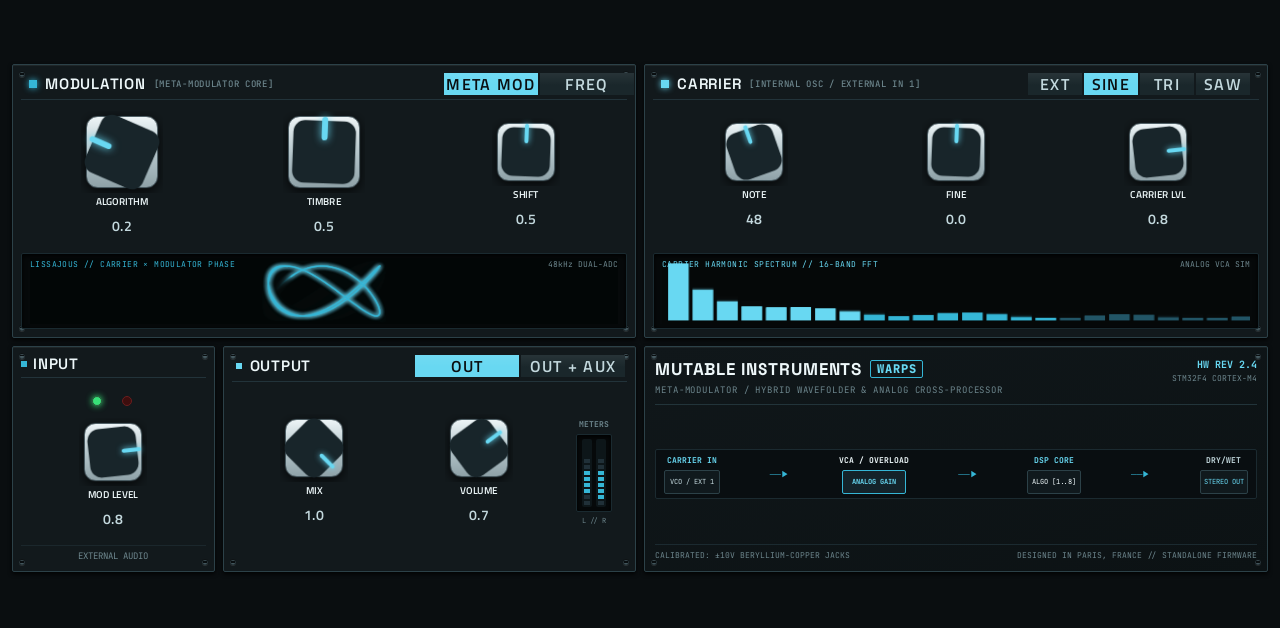
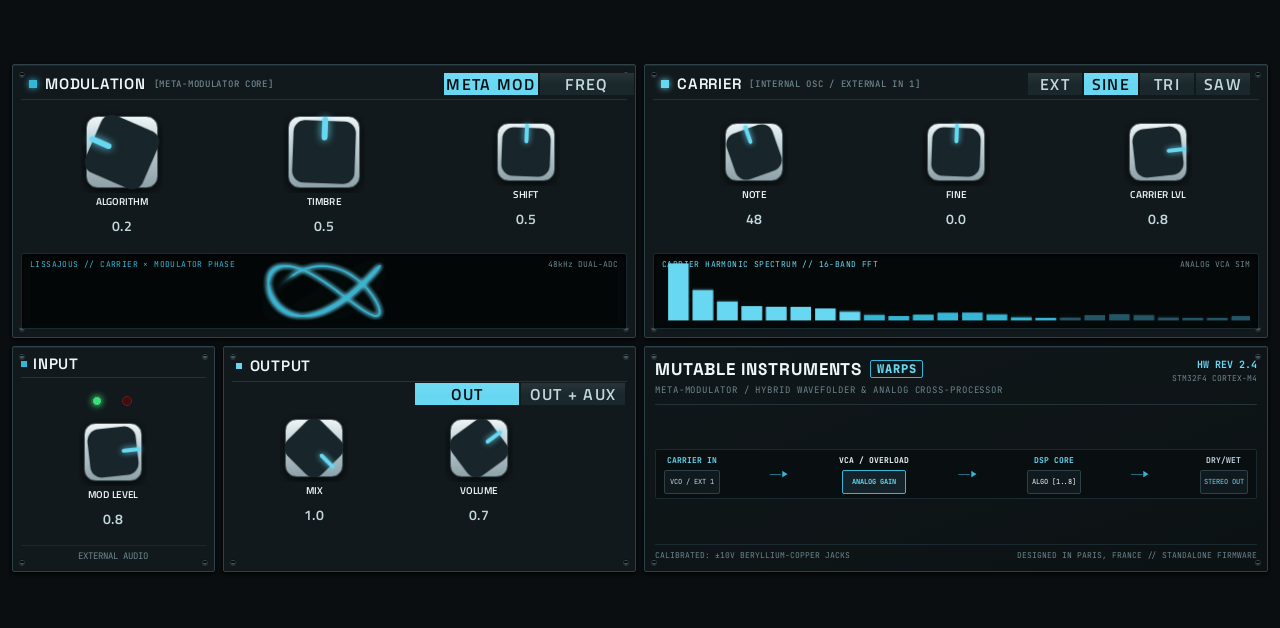
Warps: design QA -- INPUT and OUTPUT a Q-Link column each

Changed region(s): [[0.3125, 0.5446, 0.5, 0.6656], [0.4375, 0.7261, 0.4688, 0.7866], [0.4375, 0.6656, 0.4688, 0.6959]]

diff --git a/DESIGN-QA.md b/DESIGN-QA.md
@@ -1,0 +1,27 @@
+# Design QA: Warps
+
+Status: done offline (2026-10-03), **waiting for the device check**.
+
+## Owner's notes
+None specific; checked against the batch rules (one Q-Link column per panel, as Moog; outlines that frame one
+panel).
+
+## What changed
+Q-Link columns before → after ("-" = an empty slot):
+
+| Page | before | after |
+|---|---|---|
+| WARPS | 1 MODE, ALGORITHM, TIMBRE, SHIFT  ·  2 CARRIER, NOTE, FINE, CARRIER LVL  ·  3 MOD LEVEL, OUTPUT, MIX, VOLUME | 1 MODE, ALGORITHM, TIMBRE, SHIFT  ·  2 CARRIER, NOTE, FINE, CARRIER LVL  ·  3 MOD LEVEL  ·  4 OUTPUT, MIX, VOLUME |
+
+- MODULATION and CARRIER were already a column each. INPUT's MOD LEVEL shared a column with OUTPUT, so that outline
+  took in both panels: now INPUT | OUTPUT, a column each.
+- OUTPUT's OUT / OUT + AUX selector moved from the panel's title bar to just under it, so OUTPUT's outline no longer
+  reaches up into MODULATION. Its made-up meters (they never moved) went.
+
+Made in the design (convert.py MAPS `augment` / `qlinks` / `nudge`), so a rerun keeps it.
+
+## Presets
+None upstream. See the batch's presets pass.
+
+## Checked
+Offline test PASSED; check_skin OK; no Q-Link outlines overlap (qlink_overlay.py).

diff --git a/README.md b/README.md
@@ -26,7 +26,7 @@ Screenshots are rendered from the built skin with the engine's real values right
 
 <img src="screenshots/page_0.png" width="760" alt="Warps, page WARPS">
 
-Q-Link columns: **1** MODE, ALGORITHM, TIMBRE, SHIFT  ·  **2** CARRIER, NOTE, FINE, CARRIER LVL  ·  **3** MOD LEVEL, OUTPUT, MIX, VOLUME
+Q-Link columns: **1** MODE, ALGORITHM, TIMBRE, SHIFT  ·  **2** CARRIER, NOTE, FINE, CARRIER LVL  ·  **3** MOD LEVEL  ·  **4** OUTPUT, MIX, VOLUME
 
 ## Install
 
